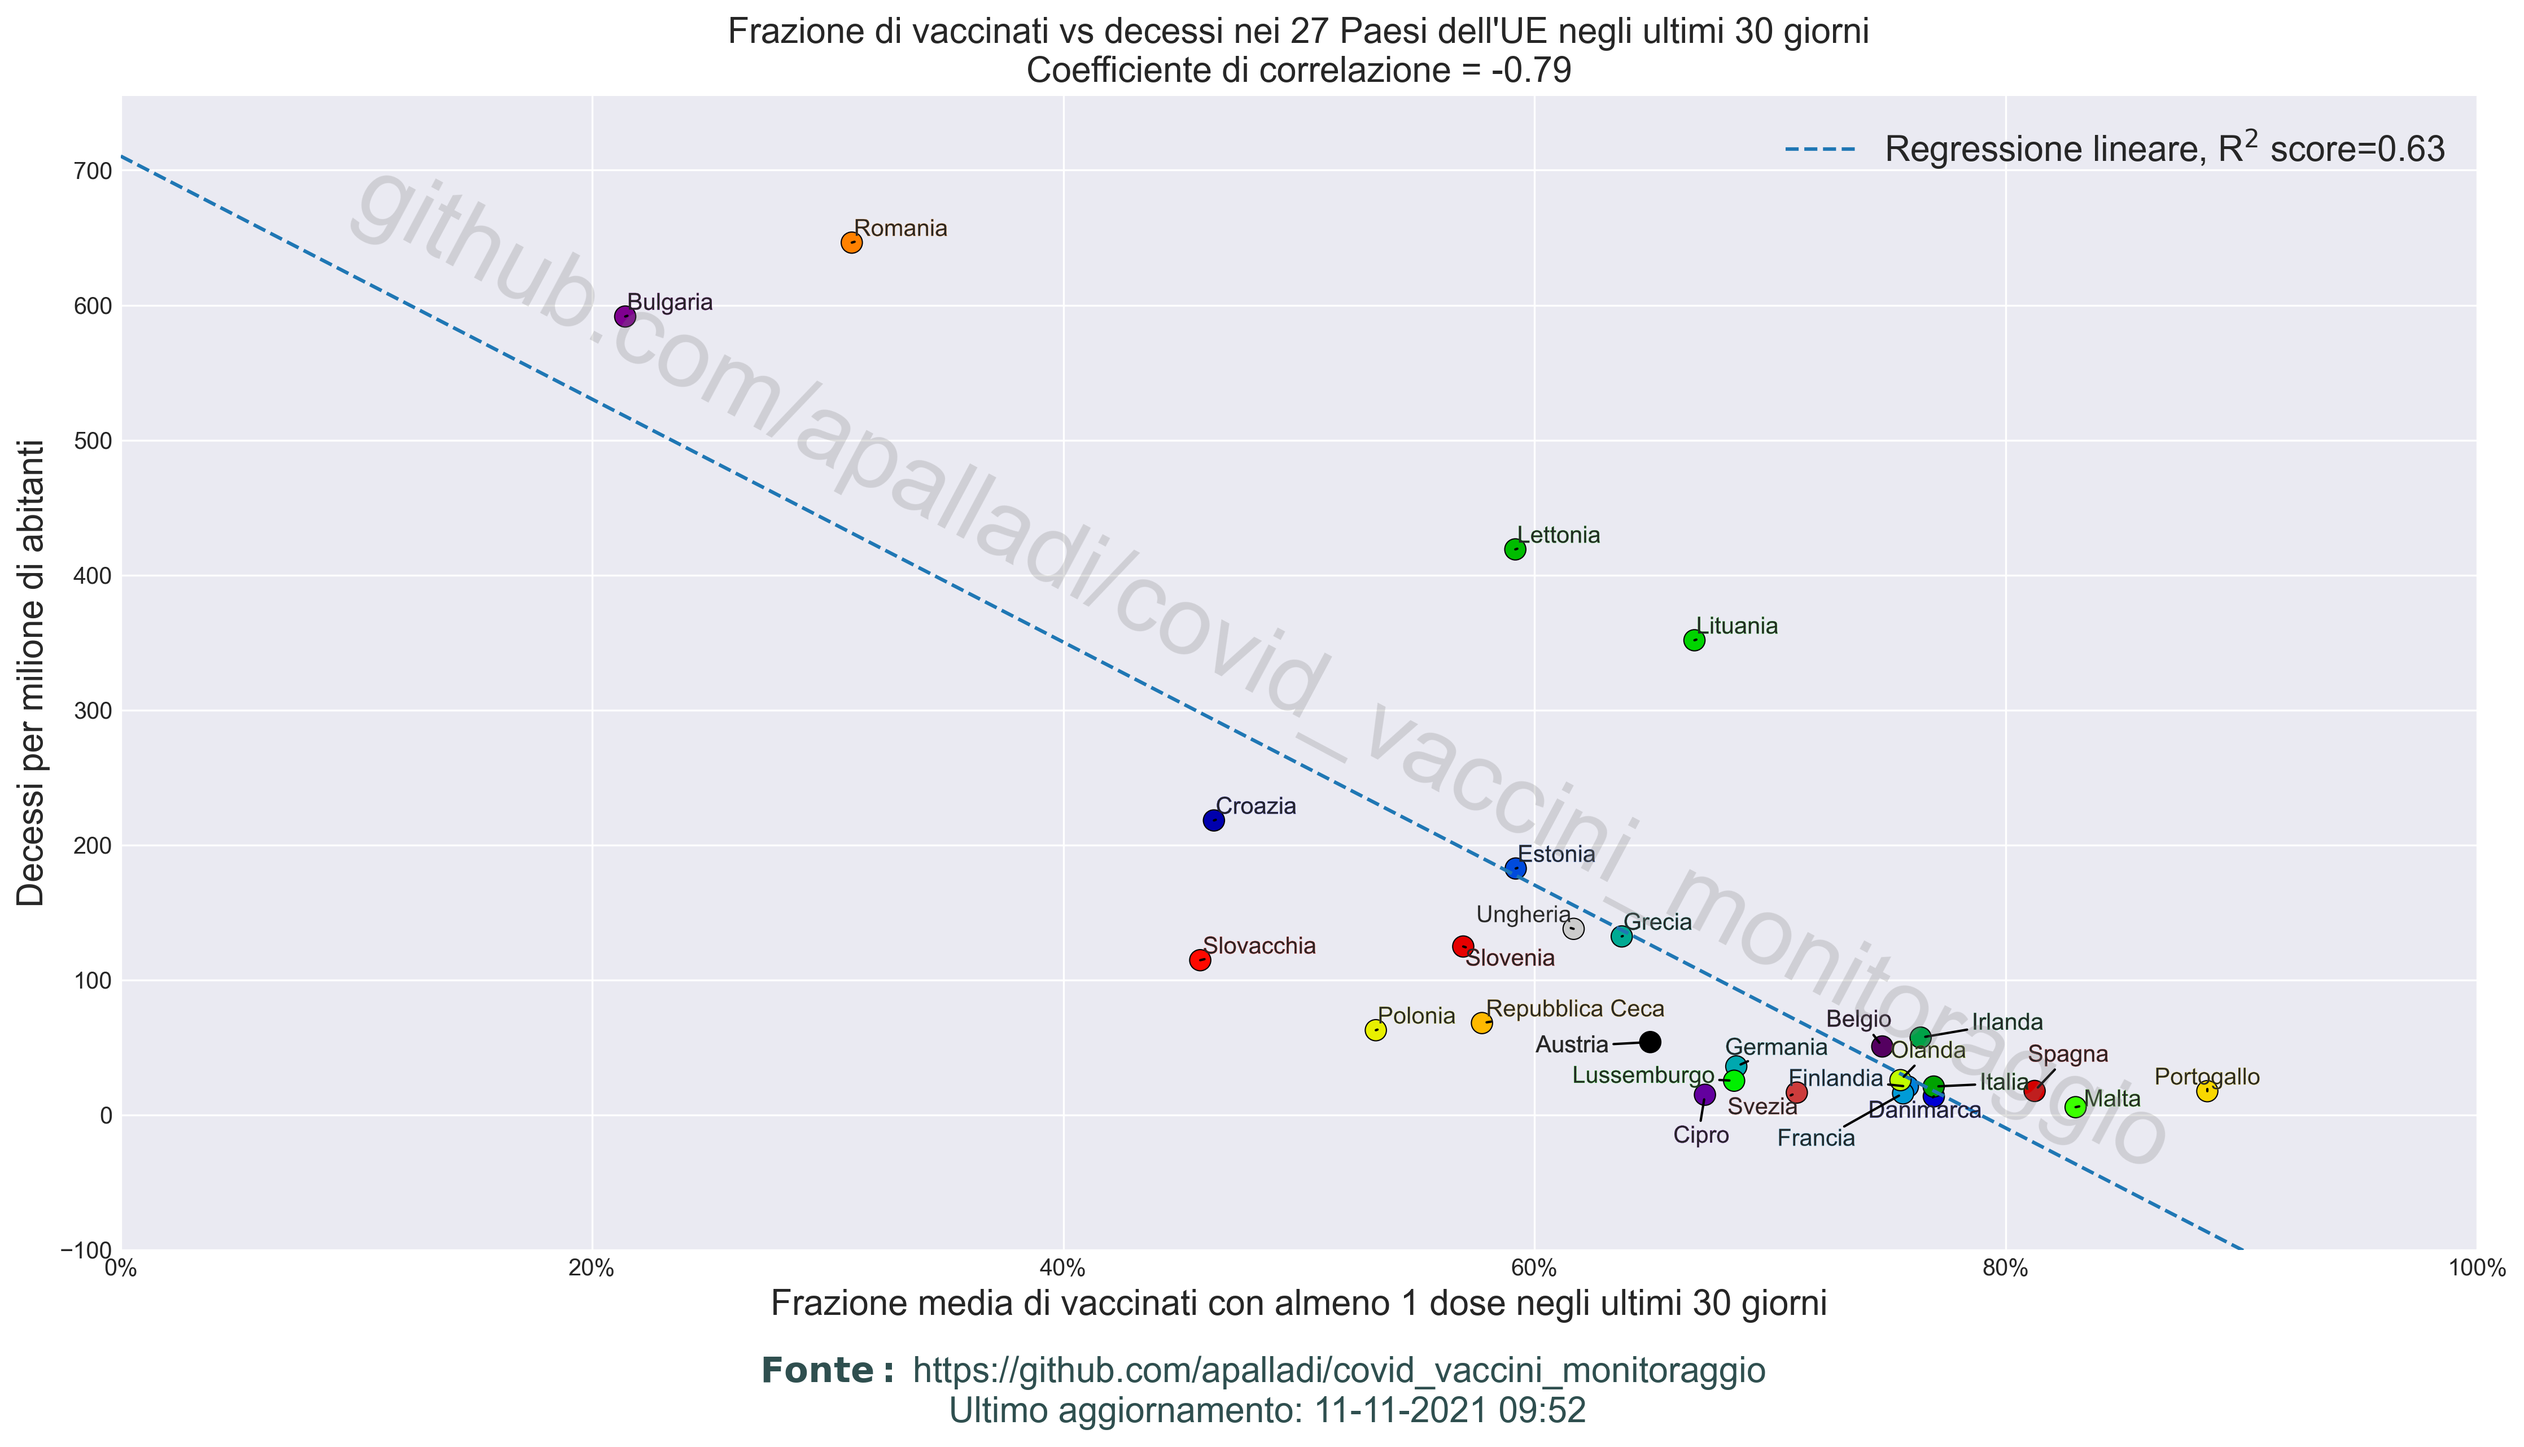
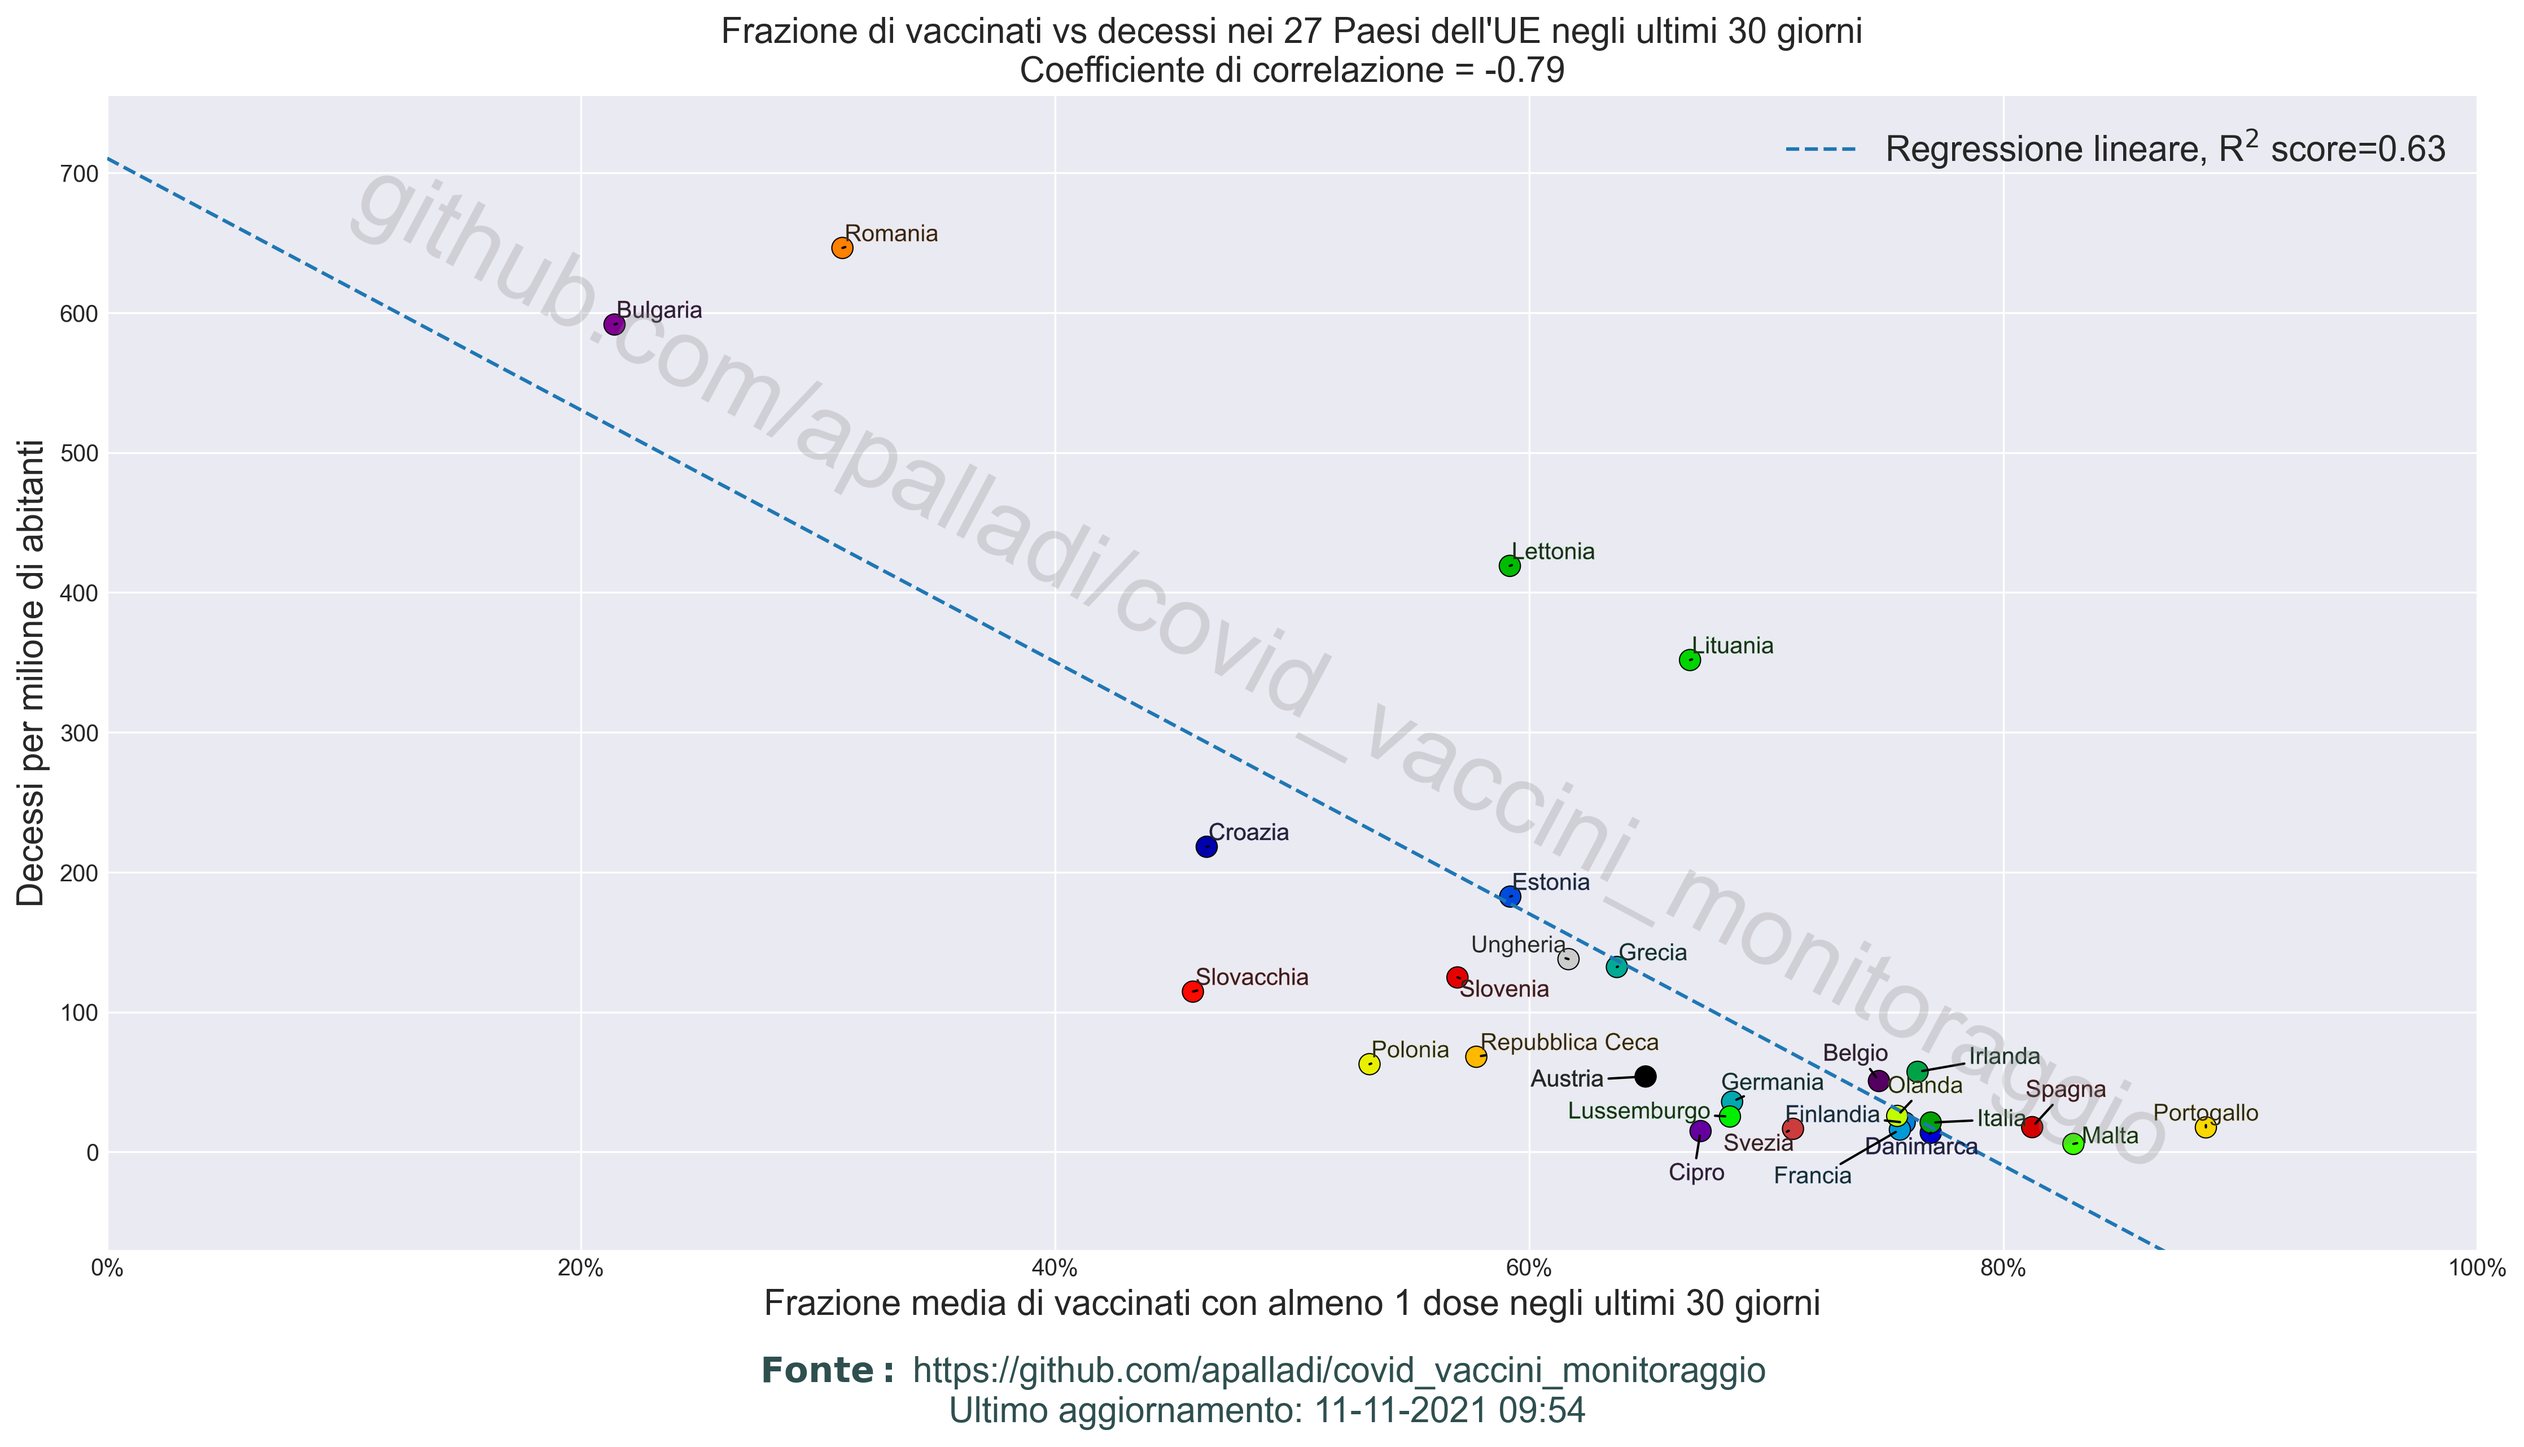
modifica ylim

diff --git a/scripts/confronti_europei.py b/scripts/confronti_europei.py
@@ -279,7 +279,7 @@ def plot_correlazione_vaccini_decessi(vacc_res_2021, dec_res_2021, x_grid, y_gri
     # fit plot
     plt.plot(x_grid, y_grid, linestyle="--", label=f"Regressione lineare, R$^2$ score={score}")
 
-    plt.ylim(-100, )
+    plt.ylim(-70, )
     plt.xlim(0, 100)
     title = "Frazione di vaccinati vs decessi nei 27 Paesi dell'UE"
     title += f" negli ultimi {window} giorni"
